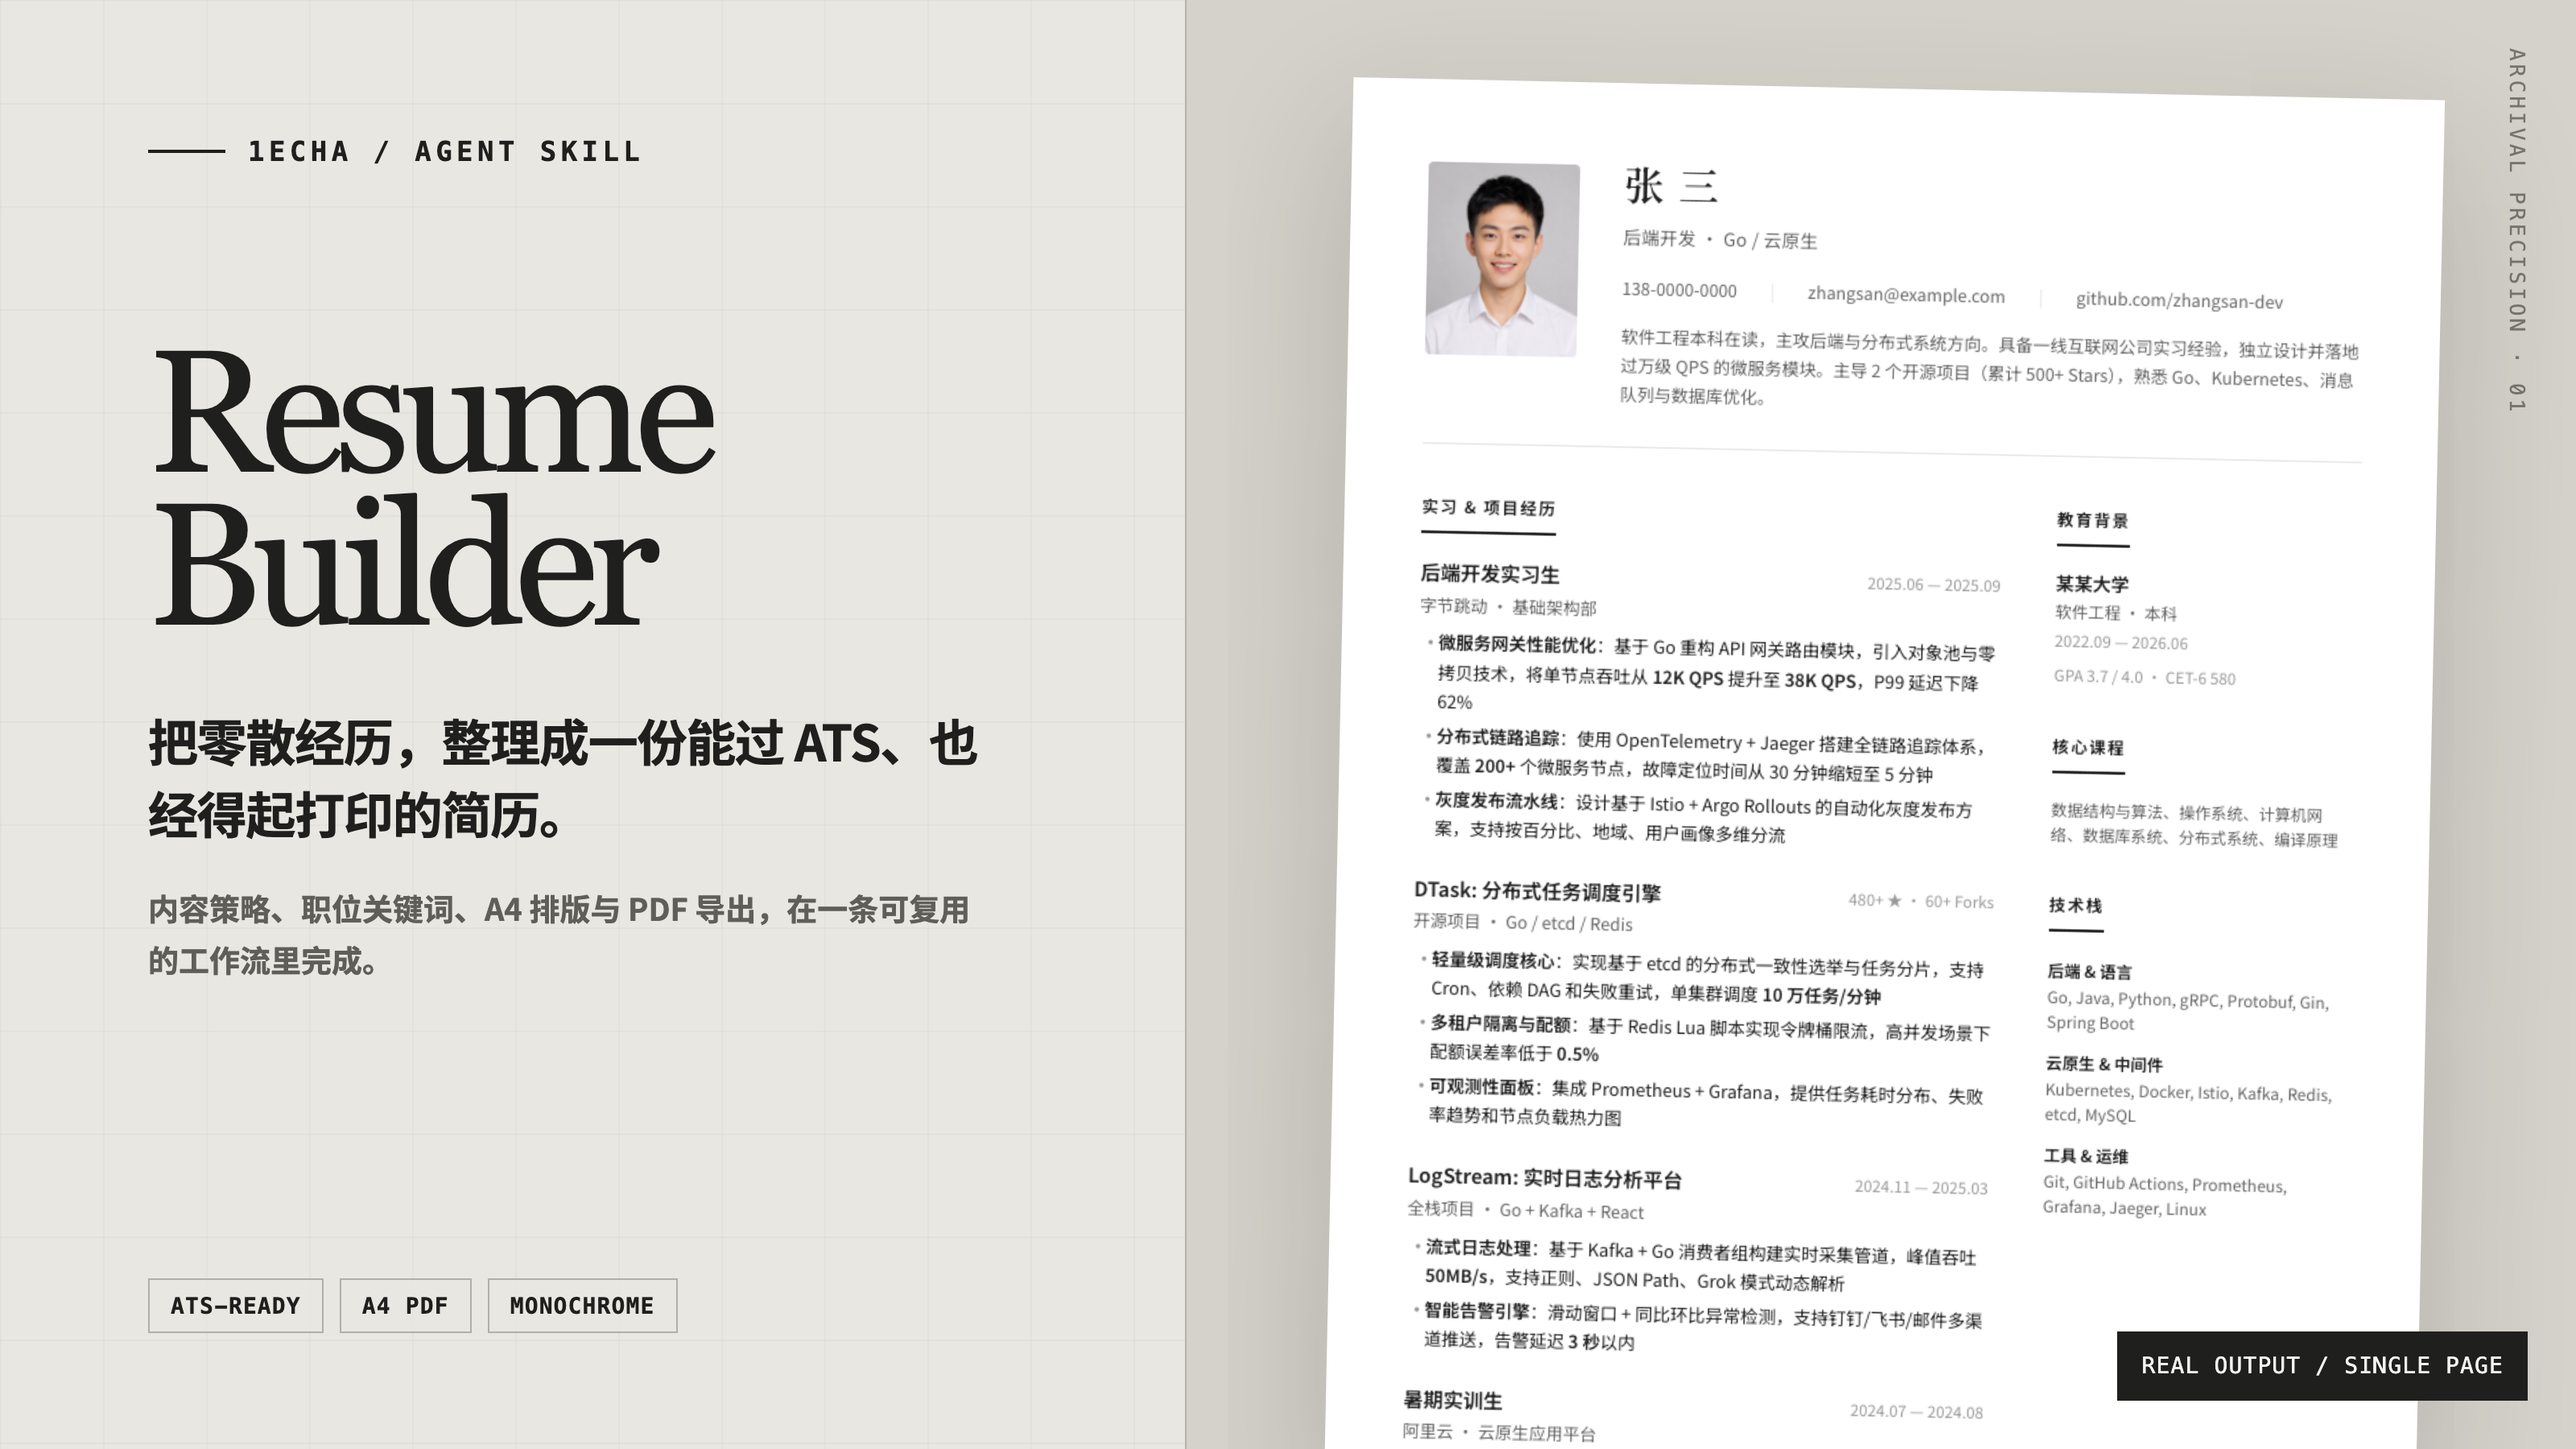
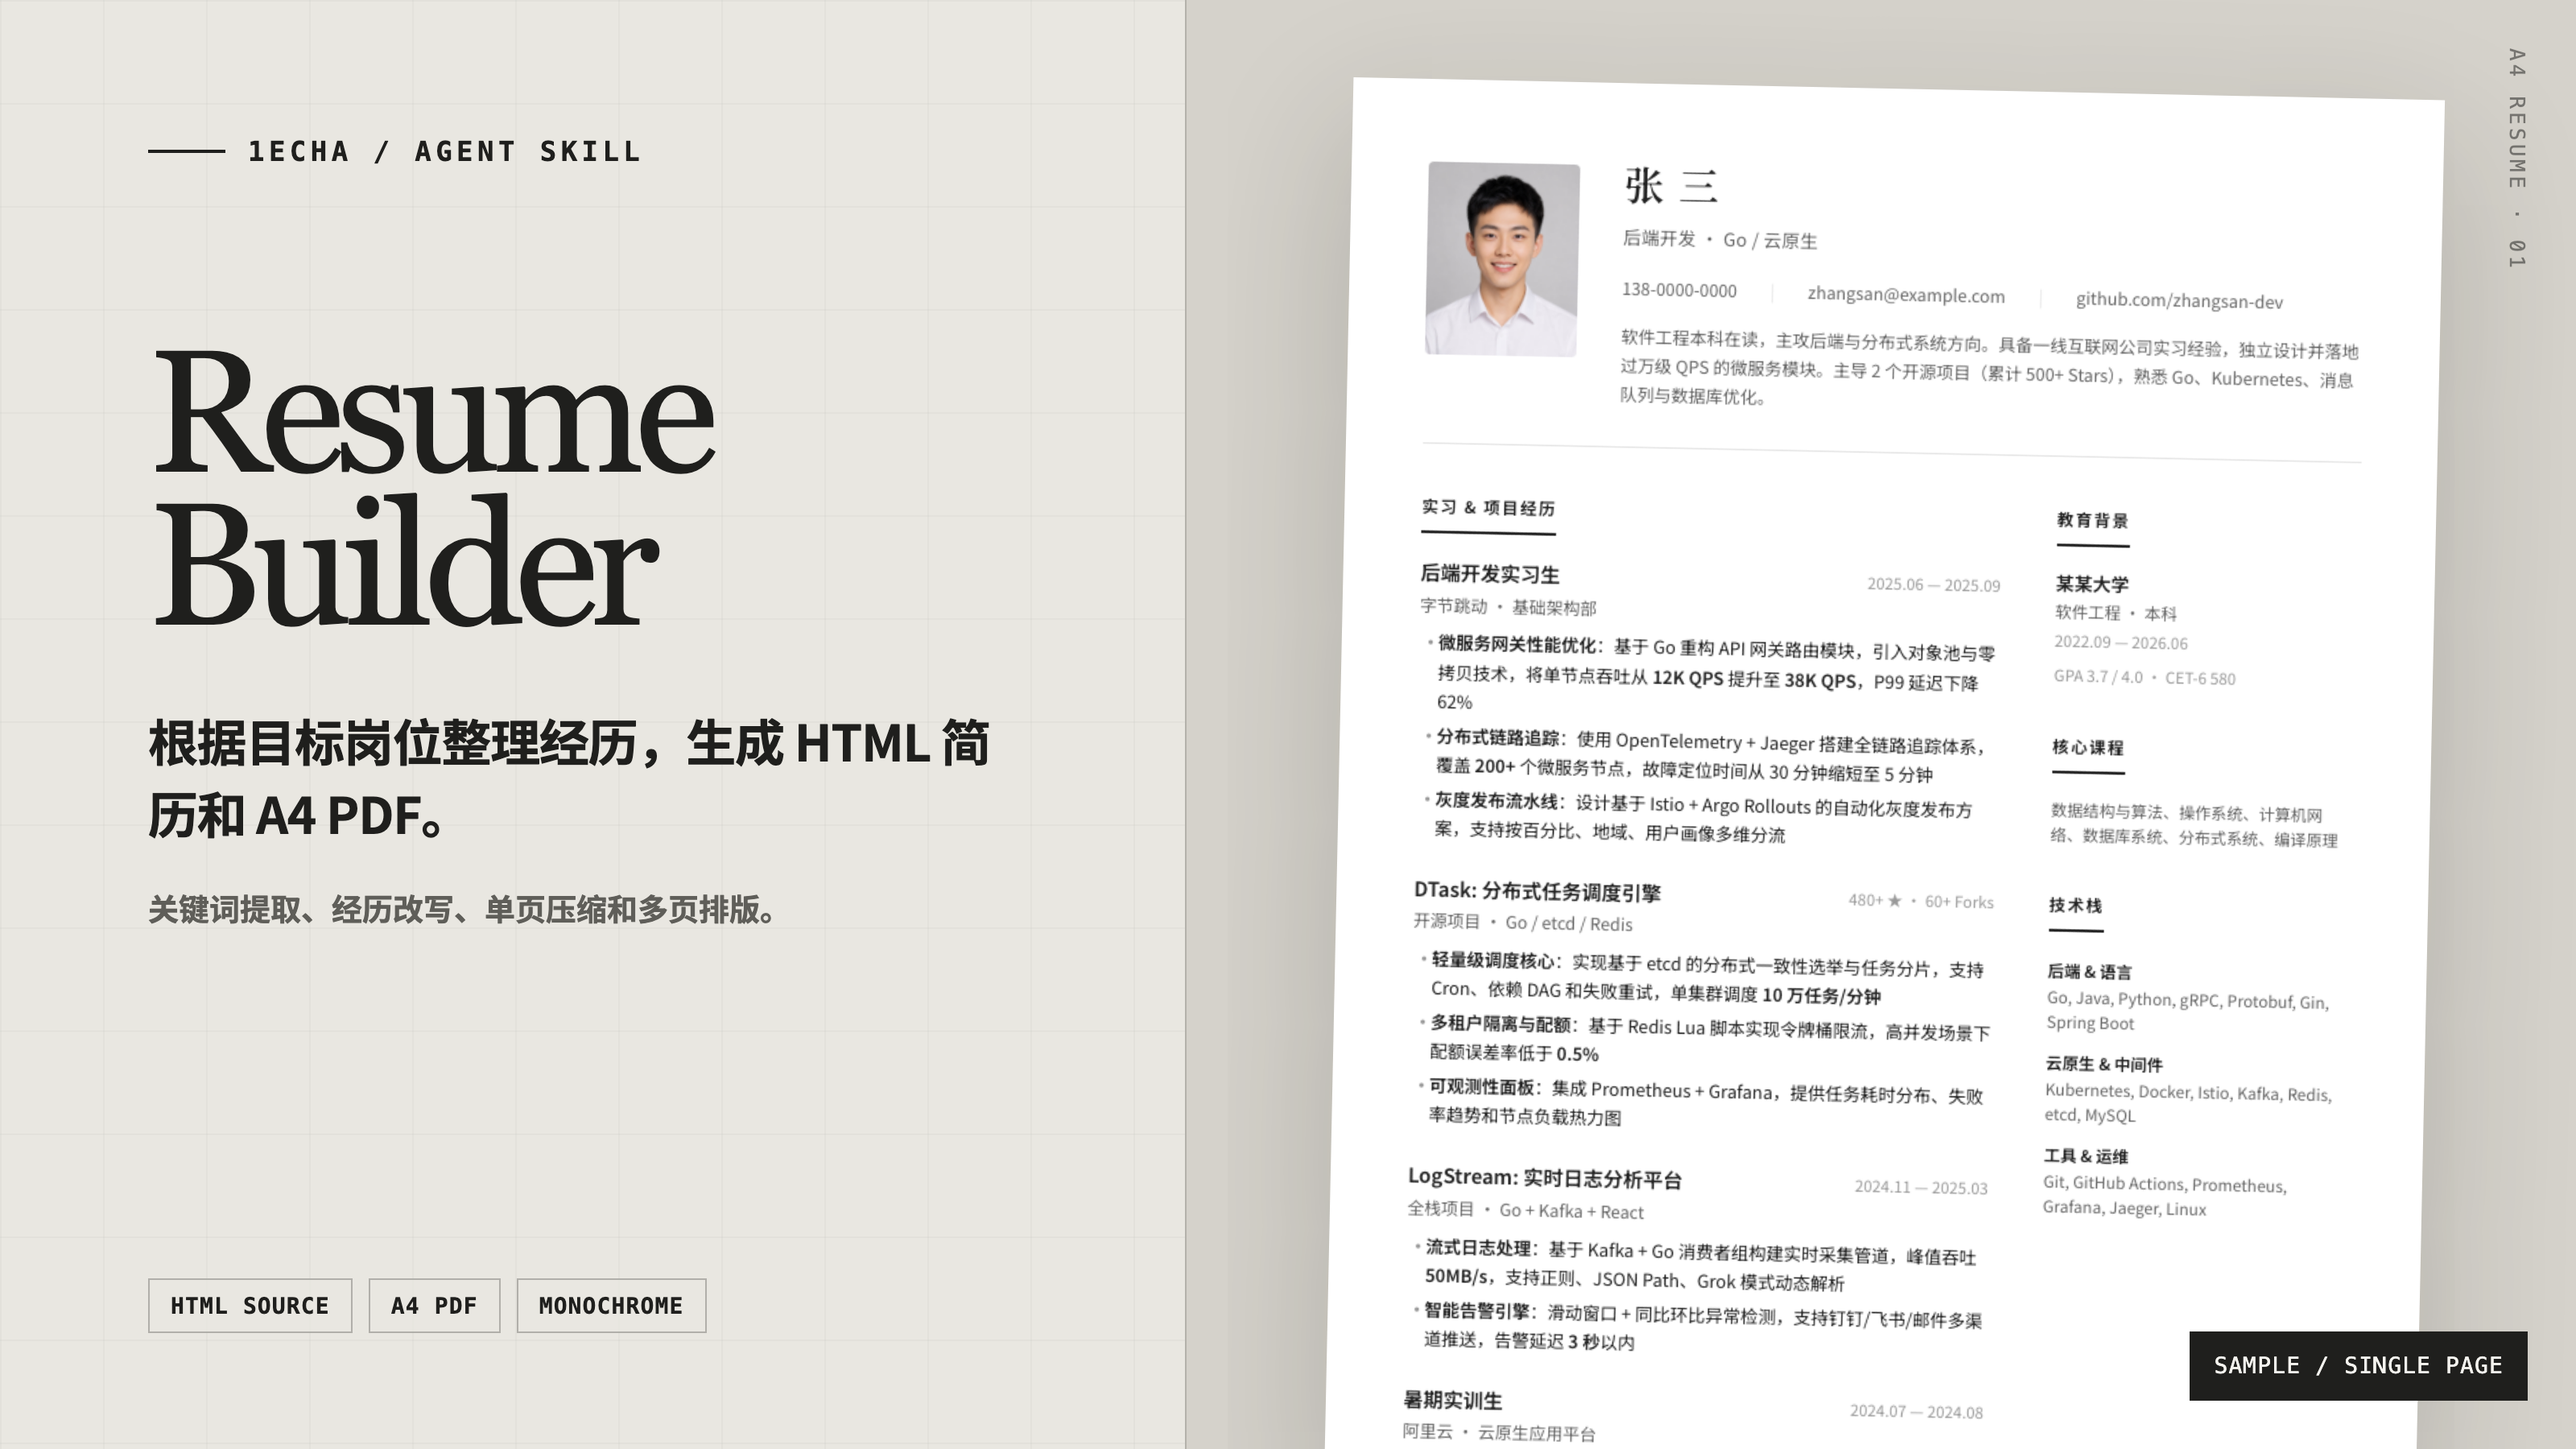
docs: replace promotional hero copy

diff --git a/assets/readme-hero.html b/assets/readme-hero.html
@@ -128,16 +128,16 @@
     <section class="copy">
       <div class="eyebrow">1EchA / Agent Skill</div>
       <h1>Resume<br>Builder</h1>
-      <p class="promise">把零散经历，整理成一份能过 ATS、也经得起打印的简历。</p>
-      <p class="sub">内容策略、职位关键词、A4 排版与 PDF 导出，在一条可复用的工作流里完成。</p>
+      <p class="promise">根据目标岗位整理经历，生成 HTML 简历和 A4 PDF。</p>
+      <p class="sub">关键词提取、经历改写、单页压缩和多页排版。</p>
       <div class="meta">
-        <span>ATS-READY</span><span>A4 PDF</span><span>MONOCHROME</span>
+        <span>HTML SOURCE</span><span>A4 PDF</span><span>MONOCHROME</span>
       </div>
     </section>
     <section class="preview">
       <img class="paper" src="../examples/single-page-preview.png" alt="真实生成的单页简历样例">
-      <div class="index">ARCHIVAL PRECISION · 01</div>
-      <div class="caption">REAL OUTPUT / SINGLE PAGE</div>
+      <div class="index">A4 RESUME · 01</div>
+      <div class="caption">SAMPLE / SINGLE PAGE</div>
     </section>
   </main>
 </body>

diff --git a/README.md b/README.md
@@ -1,8 +1,8 @@
 <div align="center">
   <sub>1EchA / AGENT SKILL</sub>
   <h1>Resume Builder</h1>
-  <p><strong>把零散经历，整理成一份能过 ATS、也经得起打印的简历。</strong></p>
-  <p>内容策略、职位关键词、A4 排版与 PDF 导出，在一条可复用的工作流里完成。</p>
+  <p><strong>根据目标岗位整理经历，生成可编辑的 HTML 简历和 A4 PDF。</strong></p>
+  <p>支持职位关键词提取、经历改写、单页压缩和多页排版。</p>
   <p>
     <a href="#30-秒开始"><strong>30 秒开始</strong></a>
     · <a href="examples/single-page.pdf">查看完整 PDF</a>
@@ -10,7 +10,7 @@
   </p>
 </div>
 
-![Resume Builder：把零散经历整理成 ATS 友好、适合打印的专业简历](assets/readme-hero.png)
+![Resume Builder：根据目标岗位整理经历并生成 HTML 简历和 A4 PDF](assets/readme-hero.png)
 
 页面默认使用黑白排版，信息层级主要由内容顺序、字号和间距建立。
 
